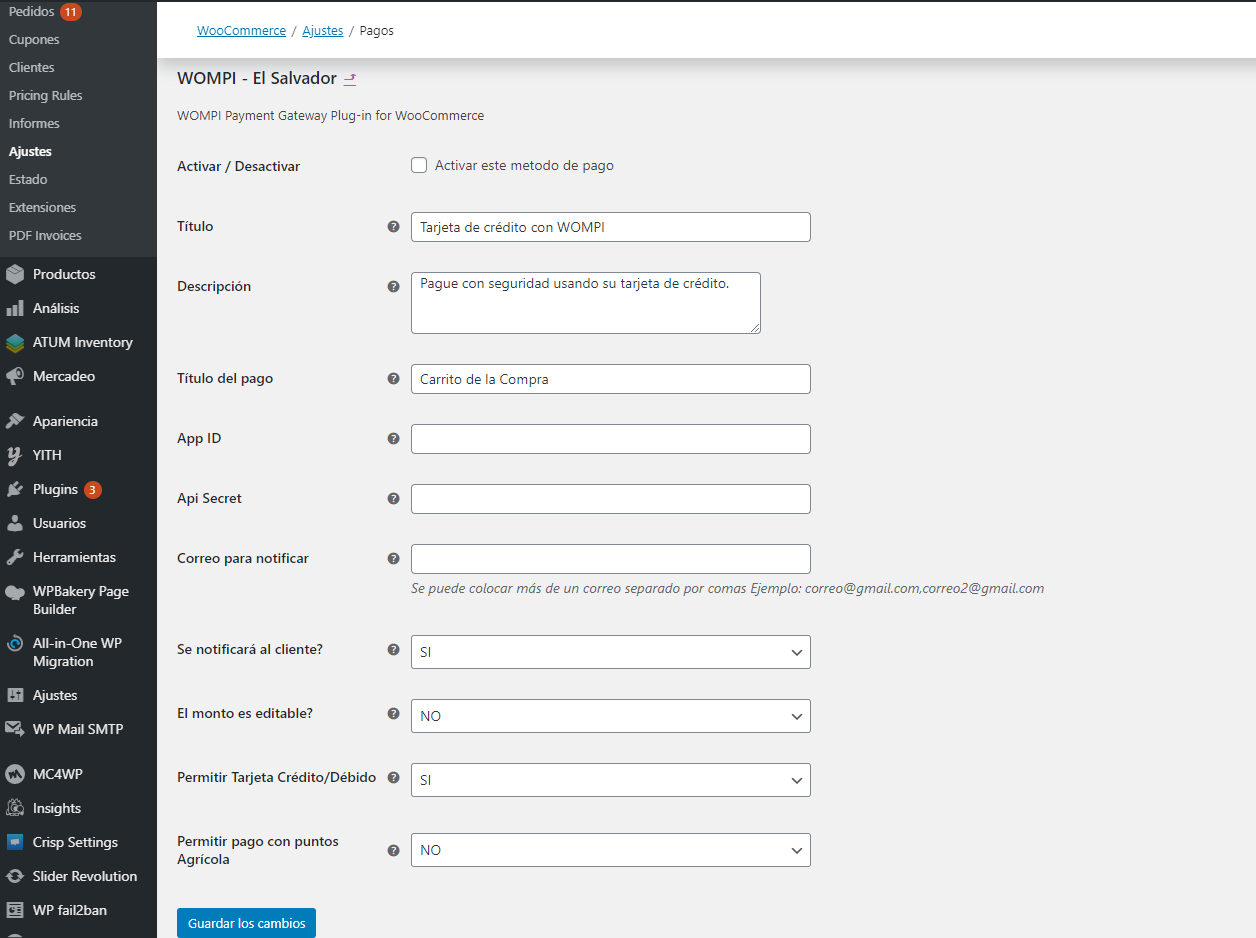
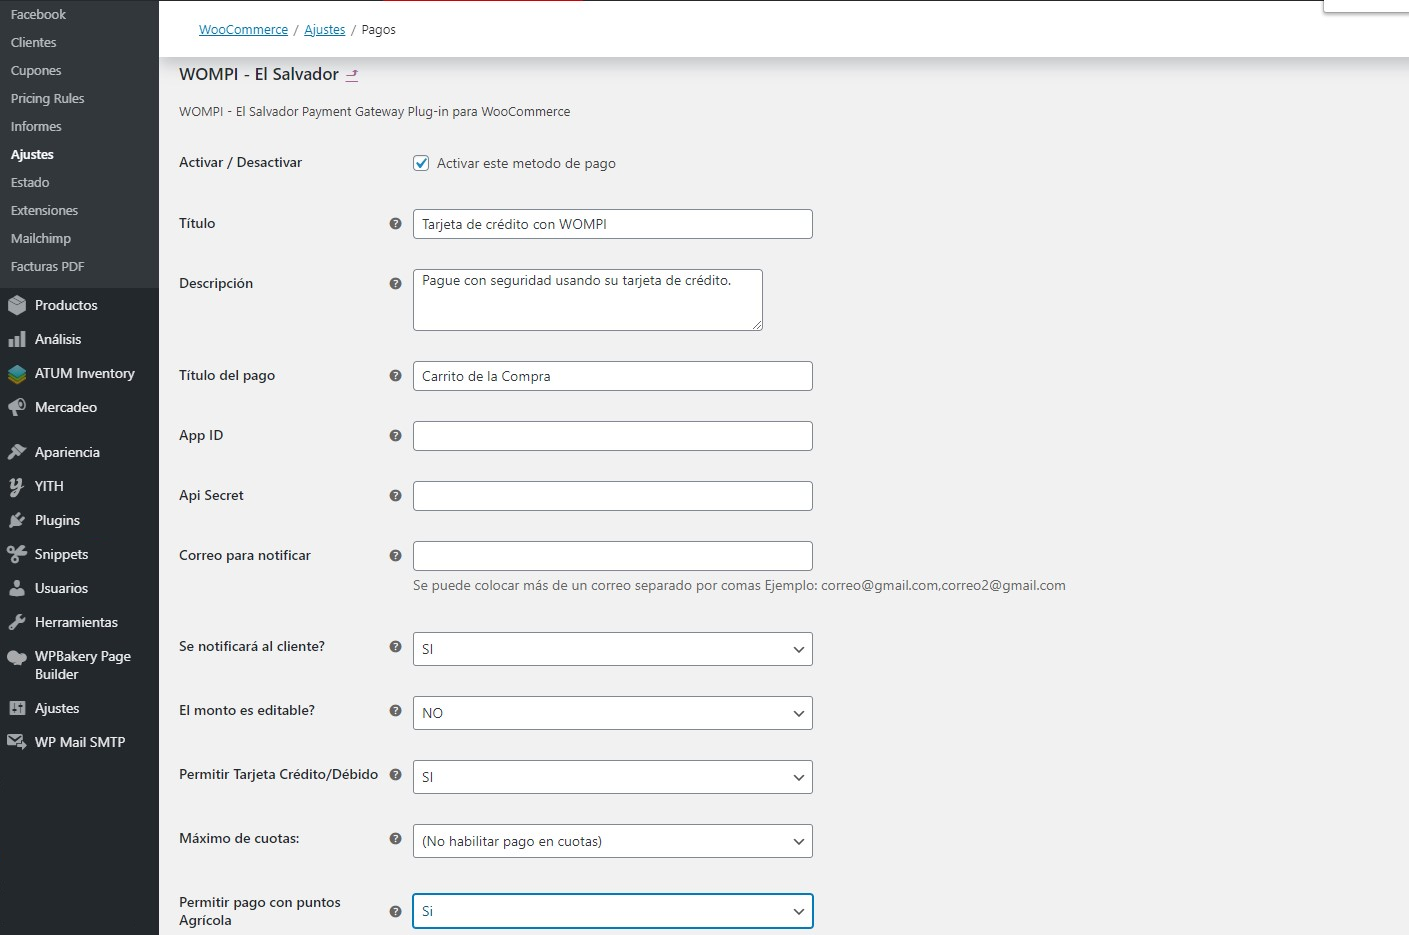
Se agregan funcionalidades para permitir pagos en cuotas

diff --git a/wc-WOMPI-payment.php b/wc-WOMPI-payment.php
@@ -8,7 +8,7 @@ class wompi_Payment_Gateway extends WC_Payment_Gateway
         $this->method_title = __("WOMPI - El Salvador", 'wompi-payment');
         $this->method_description = __("WOMPI - El Salvador Payment Gateway Plug-in para WooCommerce", 'wompi-payment');
         $this->title = __("WOMPI - El Salvador", 'wompi-payment');
-        $this->icon = apply_filters('woocommerce_wompi_icon', $woocommerce->plugin_url() . '/../wocommerce-wompi-sv-plugin-master/assets/images/wompi.png');
+        $this->icon = apply_filters('woocommerce_wompi_icon', $woocommerce->plugin_url() . '/../wompi-el-salvador/assets/images/wompi.png');
         $this->has_fields = true;
         $this->init_form_fields();
         $this->init_settings();
@@ -42,24 +42,7 @@ class wompi_Payment_Gateway extends WC_Payment_Gateway
     {
         global $woocommerce;
         $headers = getallheaders();
-        if (!function_exists('write_log'))
-        {
-            function write_log($log)
-            {
-                if (true === WP_DEBUG)
-                {
-                    if (is_array($log) || is_object($log))
-                    {
-                        error_log(print_r($log, true));
-                    }
-                    else
-                    {
-                        error_log($log);
-                    }
-                }
-            }
-
-        }
+        
         $entityBody = @file_get_contents('php://input');
         write_log('entra en el validate_wompi_webhook ************************************ ' . json_encode($headers) . ' ************');
 
@@ -144,7 +127,6 @@ class wompi_Payment_Gateway extends WC_Payment_Gateway
                         ->cart
                         ->empty_cart();
                     wp_redirect(html_entity_decode($customer_order->get_checkout_order_received_url()));
-
                 }
                 else
                 {
@@ -165,8 +147,83 @@ class wompi_Payment_Gateway extends WC_Payment_Gateway
             home_url();
         }
     }
+
     public function init_form_fields()
     {
+
+        $arrayPuntos = array(
+            'true' => 'SI',
+            'false' => 'NO'
+        );
+        $array = array(
+            'false' => '(No habilitar pago en cuotas)'
+        );
+        $client_id = WC_Settings_API::get_option('client_id');
+        $client_secret = WC_Settings_API::get_option('client_secret');
+        $postBody = array(
+            'grant_type' => 'client_credentials',
+            'client_id' => $client_id,
+            'client_secret' => $client_secret,
+            'audience' => 'wompi_api',
+        );
+        $response = wp_remote_post('https://id.wompi.sv/connect/token', array(
+            'method' => 'POST',
+            'body' => http_build_query($postBody) ,
+            'timeout' => 90,
+            'sslverify' => false,
+        ));
+        if (is_wp_error($response))
+        {
+            $error_message = $response->get_error_message();
+        }
+        else
+        {
+
+            $body = wp_remote_retrieve_body($response);
+            $arrayResult = json_decode($body);
+            $token = $arrayResult->{'access_token'};
+
+            $args = array(
+                'timeout' => '90',
+                'blocking' => true,
+                'headers' => array(
+                    "Authorization" => 'Bearer ' . $token,
+                    "content-type" => 'application/json'
+                ) ,
+            );
+            $response = wp_remote_get('https://api.wompi.sv/Aplicativo', $args);
+            if (is_wp_error($response))
+            {
+                $error_message = $response->get_error_message();
+            }
+            else
+            {
+                $body = wp_remote_retrieve_body($response);
+                $arrayResult = json_decode($body);
+                $respuesta = $arrayResult->{'cuotasDisponibles'};
+                $padoConPuntos = false;
+                foreach ($respuesta as & $valor)
+                {
+                    $padoConPuntos = true;
+                    $array[$valor->{'cantidadCuotas'}] = $valor->{'cantidadCuotas'} . ' Meses (' . $valor->{'tasa'} . '% comisión)';
+                }
+                if (!$padoConPuntos)
+                {
+                    $array = array(
+                        'false' => '(Primero debes habilitar pago en cuotas en el portal de Wompi)'
+                    );
+                }
+                $respuesta = $arrayResult->{'aplicaPagoConPuntos'};
+                if (!$respuesta)
+                {
+                    $arrayPuntos = array(
+                        'false' => '(Para habilitar esta opción debes comunicarse con servicio al cliente del Banco)'
+                    );
+                    $this->api_permitirPagoConPuntoAgricola='false';
+                }
+            }
+        }
+
         $this->form_fields = array(
             'enabled' => array(
                 'title' => __('Activar / Desactivar', 'wompi-payment') ,
@@ -242,19 +299,22 @@ class wompi_Payment_Gateway extends WC_Payment_Gateway
                 'desc_tip' => __('Permitir cobrar con tarjeta de Crédito/Débido', 'wompi-payment') ,
                 'default' => 'true'
             ) ,
+            'api_permitirPagoCuotas' => array(
+                'title' => __('Máximo de cuotas:', 'wompi-payment') ,
+                'type' => 'select',
+                'options' => $array,
+                'desc_tip' => __('Permitir cobrar con cuotas', 'wompi-payment') ,
+                'default' => 'false'
+            ) ,
             'api_permitirPagoConPuntoAgricola' => array(
                 'title' => __('Permitir pago con puntos Agrícola', 'wompi-payment') ,
                 'type' => 'select',
-                'options' => array(
-                    'true' => 'SI',
-                    'false' => 'NO'
-                ) ,
+                'options' => $arrayPuntos,
                 'desc_tip' => __('Permitir cobrar con puntos Agrícola', 'wompi-payment') ,
-                'default' => 'true'
+                'default' => 'false'
             ) ,
         );
     }
-
     public function process_payment($order_id)
     {
         global $woocommerce;
@@ -262,6 +322,15 @@ class wompi_Payment_Gateway extends WC_Payment_Gateway
 
         $client_id = $this->client_id;
         $client_secret = $this->client_secret;
+        $api_permitirPagoCuotas = 'false';
+        $api_permitirPagoConPuntoAgricola = $this->api_permitirPagoConPuntoAgricola;
+        if(method_exists($this, 'api_permitirPagoCuotas')){
+            $api_permitirPagoCuotas = $this->api_permitirPagoCuotas;
+        }
+        if ($api_permitirPagoCuotas === 'undefined')
+        {
+            $api_permitirPagoCuotas = 'false';
+        }
         $postBody = array(
             'grant_type' => 'client_credentials',
             'client_id' => $client_id,
@@ -297,9 +366,28 @@ class wompi_Payment_Gateway extends WC_Payment_Gateway
                 "urlRedirect" => home_url() . '/?wc-api=WC_Gateway_Wompi',
                 "api_notifica" => $this->api_edit_monto
             );
+            $api_permitirPagoCuotasRR = true;
+            $api_NumeroMaxCuotas = '';
+            if ($api_permitirPagoCuotas == 'false')
+            {
+                $api_permitirPagoCuotasRR = false;
+            }
+            else
+            {
+                $api_permitirPagoCuotasRR = true;
+                $api_NumeroMaxCuotas = $api_permitirPagoCuotas;
+            }
+            //Evaluar si se permite el pago con puntos
+            // if($api_permitirPagoConPuntoAgricola == 'false')
+            // {
+
+            // }
+            write_log( "Valor de permitirPagoConPuntoAgricola {$api_permitirPagoConPuntoAgricola}" );
+
             $formaPago = array(
                 "permitirTarjetaCreditoDebido" => $this->api_permitirTarjetaCreditoDebido,
-                "permitirPagoConPuntoAgricola" => $this->api_permitirPagoConPuntoAgricola
+                "permitirPagoConPuntoAgricola" => $api_permitirPagoConPuntoAgricola,
+                "permitirPagoEnCuotasAgricola" => $api_permitirPagoCuotasRR
             );
             $payload_data = array(
                 "identificadorEnlaceComercio" => $order_id,
@@ -308,6 +396,10 @@ class wompi_Payment_Gateway extends WC_Payment_Gateway
                 "formaPago" => $formaPago,
                 "configuracion" => $configuracion
             );
+            if ($api_permitirPagoCuotasRR)
+            {
+                $payload_data['cantidadMaximaCuotas'] = $api_NumeroMaxCuotas;
+            }
             $args = array(
                 'body' => wp_json_encode($payload_data) ,
                 'timeout' => '90',
@@ -316,6 +408,11 @@ class wompi_Payment_Gateway extends WC_Payment_Gateway
                     "Authorization" => 'Bearer ' . $token,
                     "content-type" => 'application/json'
                 ) ,
+                'stream_context' => stream_context_create(array(
+                    'ssl' => array(
+                        'ciphers' => 'DEFAULT:!TLSv1.0:!SSLv3'
+                    ) ,
+                )) ,
             );
             $response = wp_remote_post('https://api.wompi.sv/EnlacePago', $args);
             if (is_wp_error($response))
@@ -327,6 +424,7 @@ class wompi_Payment_Gateway extends WC_Payment_Gateway
             {
                 $body = wp_remote_retrieve_body($response);
                 $arrayResult = json_decode($body);
+                write_log($arrayResult);
                 $urlEnlace = $arrayResult->{'urlEnlace'};
                 return array(
                     'result' => 'success',
@@ -334,9 +432,7 @@ class wompi_Payment_Gateway extends WC_Payment_Gateway
                 );
             }
         }
-
     }
-
 }
 
 add_action('woocommerce_admin_order_data_after_billing_address', 'show_WOMPI_info', 10, 1);
@@ -345,4 +441,21 @@ function show_WOMPI_info($order)
     $order_id = method_exists($order, 'get_id') ? $order->get_id() : $order->id;
     echo '<p><strong>' . __('WOMPI Transaction Id') . ':</strong> ' . get_post_meta($order_id, '_wc_order_wompi_transactionid', true) . '</p>';
 }
-?>
+
+if (!function_exists('write_log'))
+        {
+            function write_log($log)
+            {
+                if (true === WP_DEBUG)
+                {
+                    if (is_array($log) || is_object($log))
+                    {
+                        error_log(print_r($log, true));
+                    }
+                    else
+                    {
+                        error_log($log);
+                    }
+                }
+            }
+        }

diff --git a/wc-WOMPI-payment-gateway.php b/wc-WOMPI-payment-gateway.php
@@ -3,7 +3,7 @@
 Plugin Name: WOMPI - El Salvador
 Plugin URI: https://github.com/wompisv/wocommerce-wompi-sv-plugin
 Description: Plugin WooCommerce para integrar la pasarela de pago Wompi El Salvador
-Version: 1.0
+Version: 1.2.1
 Author: WOMPI-El Salvador 
 Author URI: https://wompi.sv
 */
